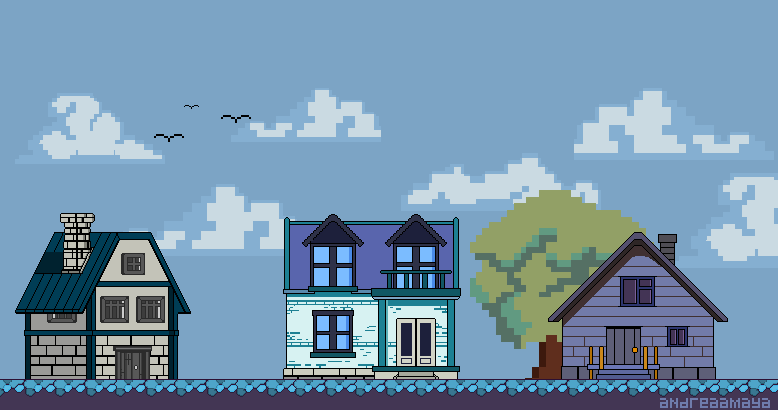
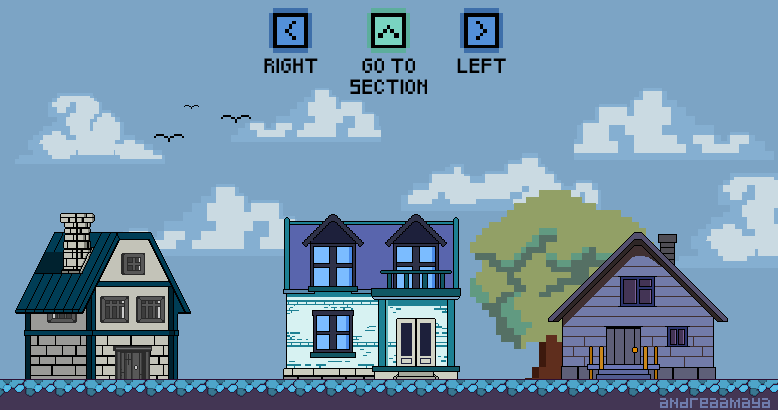
Mejoras :)

Changed region(s): [[0.4319, 0.0, 0.5553, 0.2341], [0.5861, 0.0, 0.6478, 0.1756], [0.3393, 0.0, 0.401, 0.1756]]

diff --git a/src/components/Game/PlayableArea.jsx b/src/components/Game/PlayableArea.jsx
@@ -1,8 +1,9 @@
 /* eslint-disable jsx-a11y/no-noninteractive-element-interactions */
 /* eslint-disable jsx-a11y/no-noninteractive-tabindex */
-import React, { useState } from 'react'
+import React, { useEffect, useState } from 'react'
 import PropTypes from 'prop-types'
 import Sections from '../Sections'
+import useScreen from '../Observer'
 import './Game.css'
 
 import sprite1 from './images/sprite1.png'
@@ -32,10 +33,19 @@ Sprite.propTypes = {
 
 const PlayableArea = ({ actualArea, goHome }) => {
   const playableArea = React.createRef()
+  const observer = useScreen(playableArea, 1)
+  const [oneTime, setOneTime] = useState(0)
 
   const [move, setMove] = useState(0)
   const [actualSprite, setActualSprite] = useState(0)
   const [actualOrientation, setActualOrientation] = useState(1)
+
+  useEffect(() => {
+    if (observer && oneTime === 0) {
+      playableArea.current.focus()
+      setOneTime(1)
+    }
+  })
 
   const handleKeyDown = (event) => {
     if (event.key === 'ArrowLeft') {
@@ -73,12 +83,16 @@ const PlayableArea = ({ actualArea, goHome }) => {
       } else if (move >= 84 && move <= 100) {
         window.location.hash = '#ContactMe'
       }
+
+      setTimeout(() => {
+        setOneTime(0)
+      }, 500)
     }
   }
 
   return (
     <div>
-      <h3>⬇ C l i c k  - t o -  p l a y ⬇</h3>
+      <h3>⬇ Use-your-arrows ⬇</h3>
       <div id="gameView" role="banner" className={actualArea} tabIndex="0" onKeyDown={handleKeyDown} ref={playableArea}>
         <Sections goHome={goHome} />
         <Sprite

diff --git a/src/components/PersonalInfo/AboutMe.jsx b/src/components/PersonalInfo/AboutMe.jsx
@@ -18,7 +18,7 @@ const AboutMe = () => (
             <img src={H} alt="H" />
             <div>
               WHO IS ANDREA AMAYA?
-              Frontend developer interested on data security 🤯
+              Frontend developer interested in data security 🤯
             </div>
           </div>
 
@@ -33,12 +33,13 @@ const AboutMe = () => (
             <div>
               I am a positive and determined person.
               No one will stop me once I have started something.
-              I like trying new things, experimenting with animations and bring people happinnes.
+              I like trying new things, experimenting with animations
+              and bringing happiness to others.
             </div>
           </div>
           <div className="pair">
             <div>
-              I&apos;ve love designing in Photoshop since I was a kid. After that, I discovered the
+              I&apos;ve loved designing in Photoshop since I was a kid. After that, I discovered the
               programming world and I fell in love for the second time.
             </div>
             <img src={E} alt="E" />

diff --git a/src/components/Game/Game.css b/src/components/Game/Game.css
@@ -1,6 +1,5 @@
 .game { 
-  padding-top: 2em;
-  padding-bottom: 3em;
+  padding: 2em 0 2em 0;
   background-color: black;
 
   display: flex;
@@ -23,12 +22,6 @@
   visibility: hidden;
 }
 
-#controllers {
-  display: block;
-  width: 28vh;
-  visibility: hidden;
-}
-
 #gameView {
   display: flex;
   flex-direction: column;
@@ -39,8 +32,9 @@
 }
 
 .play {
-  background-image: url('./images/background.png');
+  background-image: url('./images/background-mobile.png');
   padding-bottom: 0.9em;
+  width: 778px;
   height: 410px;
 }
 
@@ -93,11 +87,11 @@
   .game h3 {
     visibility: visible;
   }
-  #controllers {
-    visibility: visible;
-  }
   .sprite {
     visibility: visible !important;
+  }
+  .play {
+    background-image: url('./images/background.png');
   }
 }
 

diff --git a/src/components/Game/Game.jsx b/src/components/Game/Game.jsx
@@ -3,7 +3,6 @@
 import React from 'react'
 import './Game.css'
 
-import controllers from './images/controllers.png'
 import Logo from '../PersonalInfo/Logo'
 import PlayableArea from './PlayableArea'
 
@@ -11,7 +10,9 @@ const Game = () => {
   const logo = React.createRef()
 
   setTimeout(() => {
-    logo.current.style.display = 'none'
+    if (logo.current !== null) {
+      logo.current.style.display = 'none'
+    }
   }, 4300)
 
   return (
@@ -26,7 +27,6 @@ const Game = () => {
           and visit the section :) or press the button
         </h3>
         <PlayableArea actualArea="play" />
-        <img id="controllers" src={controllers} alt="controllers" />
       </div>
     </div>
   )

diff --git a/src/components/ContactMe/ContactMe.css b/src/components/ContactMe/ContactMe.css
@@ -1,5 +1,5 @@
 #ContactMe {
-  padding-top: 5%;
+  padding: 5% 0 5% 0;
   width: 100%;
   background-color: #5D5F7A;
   font-family: 'Merriweather Sans';
@@ -18,7 +18,7 @@
 
 .final {
   max-width: 100%;
-  padding: 1em 0em 5em 0em;
+  padding: 1em 0em 1em 0em;
 }
 
 #title {

diff --git a/src/components/Projects/Projects.css b/src/components/Projects/Projects.css
@@ -9,8 +9,9 @@
 #Projects button {
   background-color: #5a5b6b00;
   color: #ffffff00;
-  width: 6vh;
-  height: 6vh;
+  z-index: 2;
+  width: 100px;
+  height: 100px;
 }
 
 #Projects #left {
